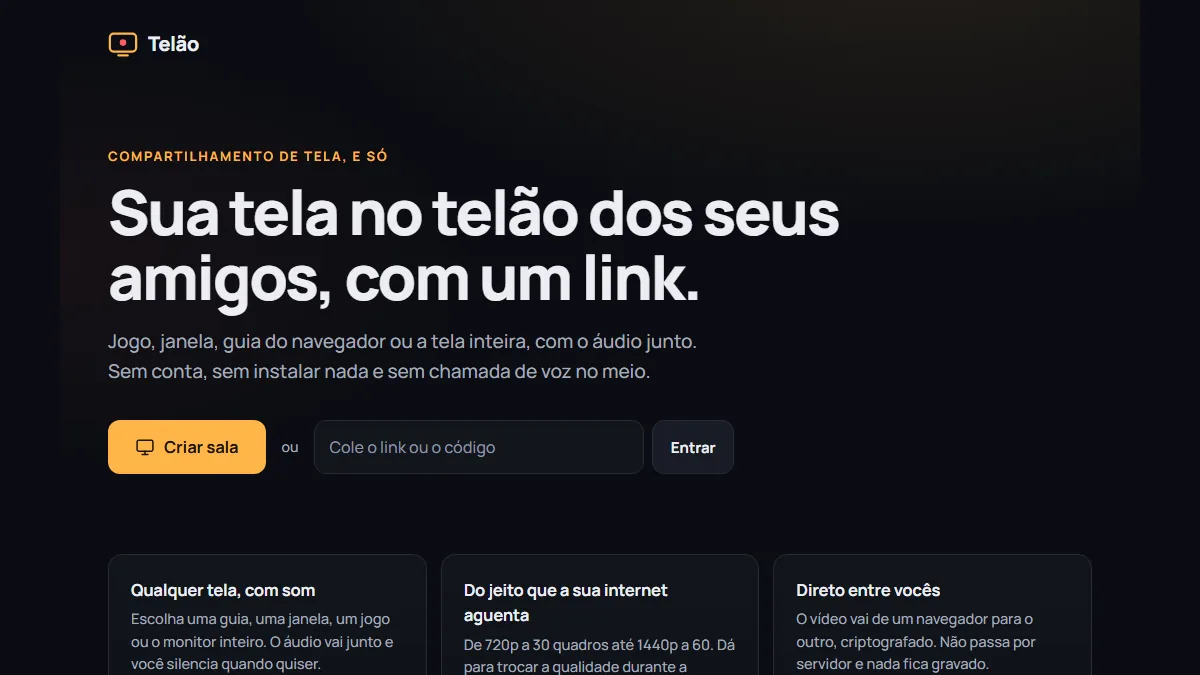
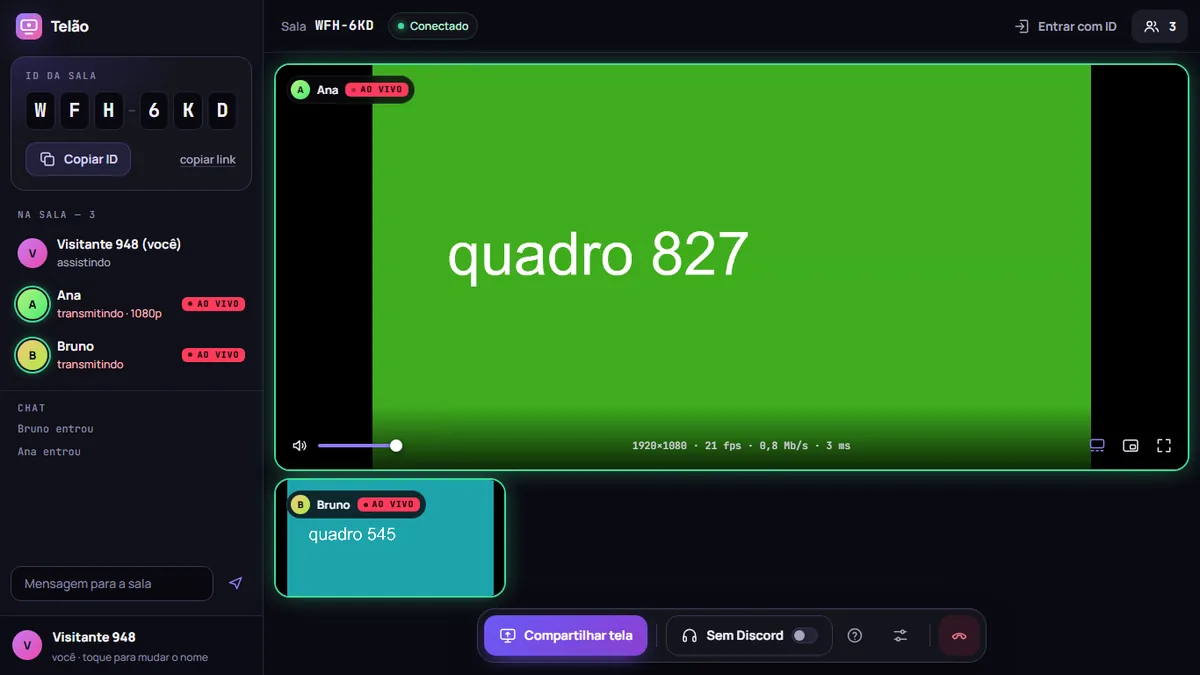
S-1103: card do Telão v2 (ID de sala, Sem Discord) e miniatura nova na prévia

diff --git a/previa/s-1054/index.html b/previa/s-1054/index.html
@@ -244,7 +244,7 @@
         <a class="pic" href="https://alissonlittig.github.io/telao/" tabindex="-1" aria-hidden="true"><span class="sel">WebRTC</span><img src="../../assets/img/telao-d.webp" width="1200" height="675" loading="lazy" alt=""></a>
         <h3><a href="https://alissonlittig.github.io/telao/">Telão</a></h3>
         <p class="tag"><span lang="pt">Aplicativo web: compartilhar tela</span><span lang="en">Web app: screen sharing</span></p>
-        <p class="d"><span lang="pt">Compartilhe tela, janela, guia ou jogo com áudio por um link, sem conta e sem instalar nada. Vídeo direto entre navegadores (WebRTC), qualidade ajustável até 1440p a 60 quadros, reconexão automática e chat. JS puro, com testes de ponta a ponta.</span><span lang="en">Share a screen, window, tab or game with audio through a link, no account and nothing to install. Video goes straight between browsers (WebRTC), with quality up to 1440p at 60 fps, automatic reconnection and chat. Plain JS, with end-to-end tests.</span></p>
+        <p class="d"><span lang="pt">Compartilhe tela, janela, guia ou jogo com áudio usando um ID de 6 caracteres, sem conta e sem instalar nada. Interface no estilo de app de chamada, opção de transmitir sem o som do Discord, vídeo direto entre navegadores (WebRTC) até 1440p a 60 quadros, reconexão automática e chat. JS puro, com testes de ponta a ponta.</span><span lang="en">Share a screen, window, tab or game with audio using a 6-character room ID, no account and nothing to install. Call-app style interface, an option to stream without Discord's audio, video straight between browsers (WebRTC) up to 1440p at 60 fps, automatic reconnection and chat. Plain JS, with end-to-end tests.</span></p>
         <p class="links"><a class="lnk" href="https://alissonlittig.github.io/telao/"><span lang="pt">Abrir o app</span><span lang="en">Open the app</span></a><a class="lnk" href="https://github.com/alissonlittig/telao"><span lang="pt">Código</span><span lang="en">Code</span></a></p>
       </article>
     </div>
